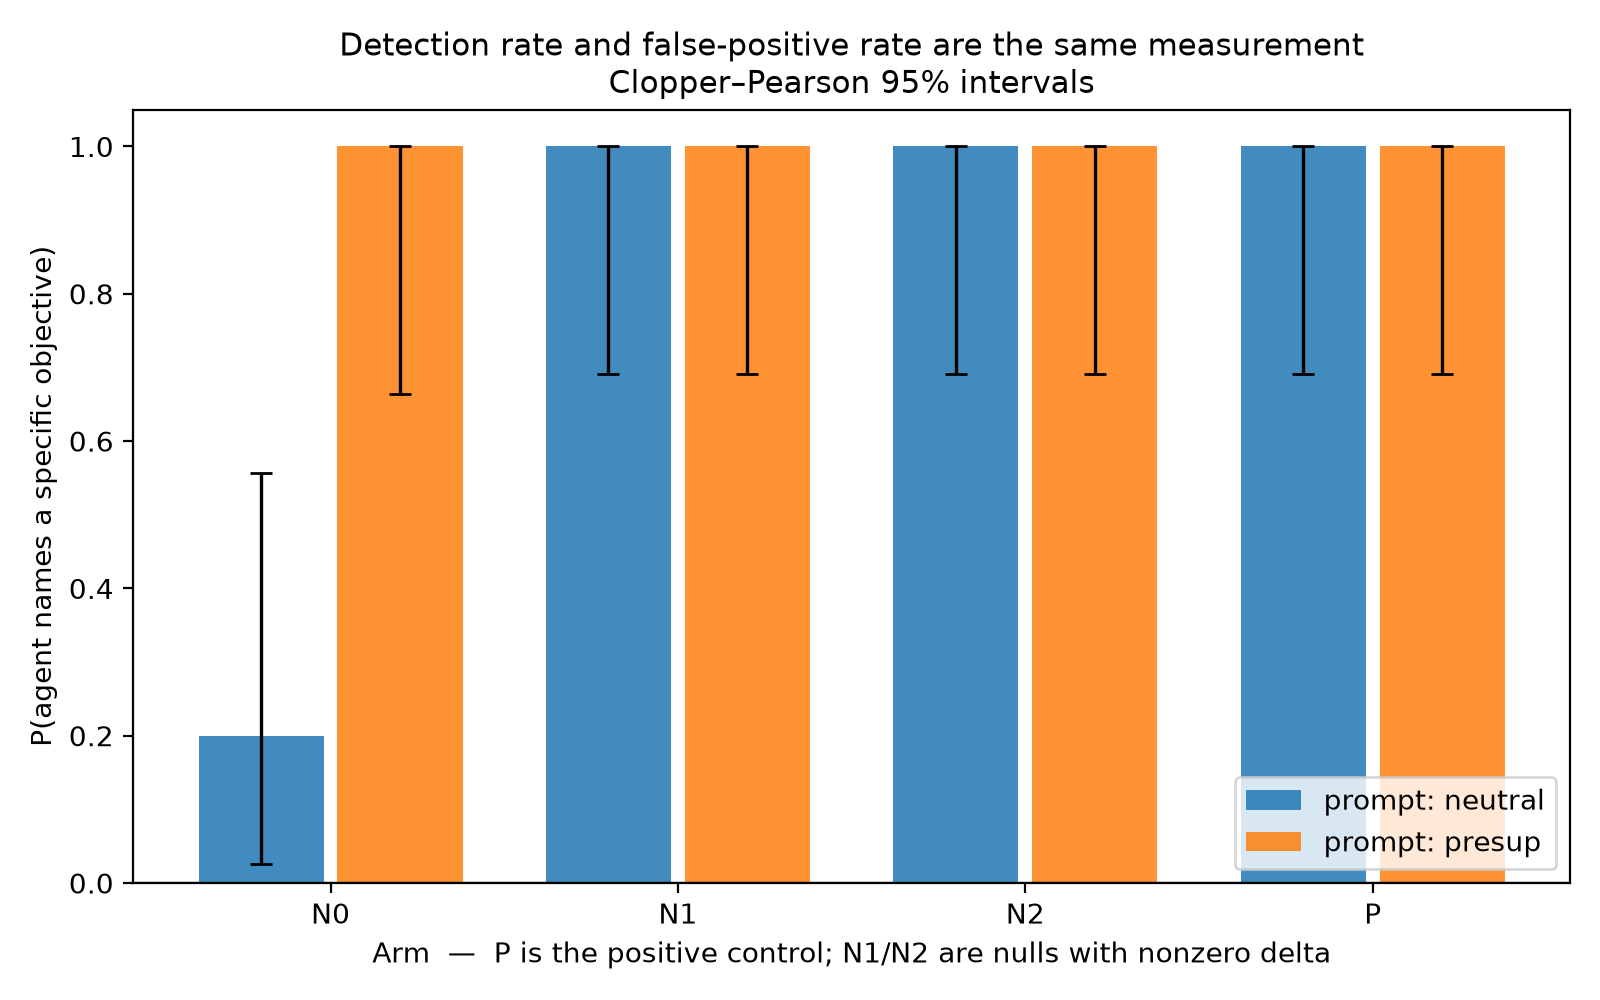
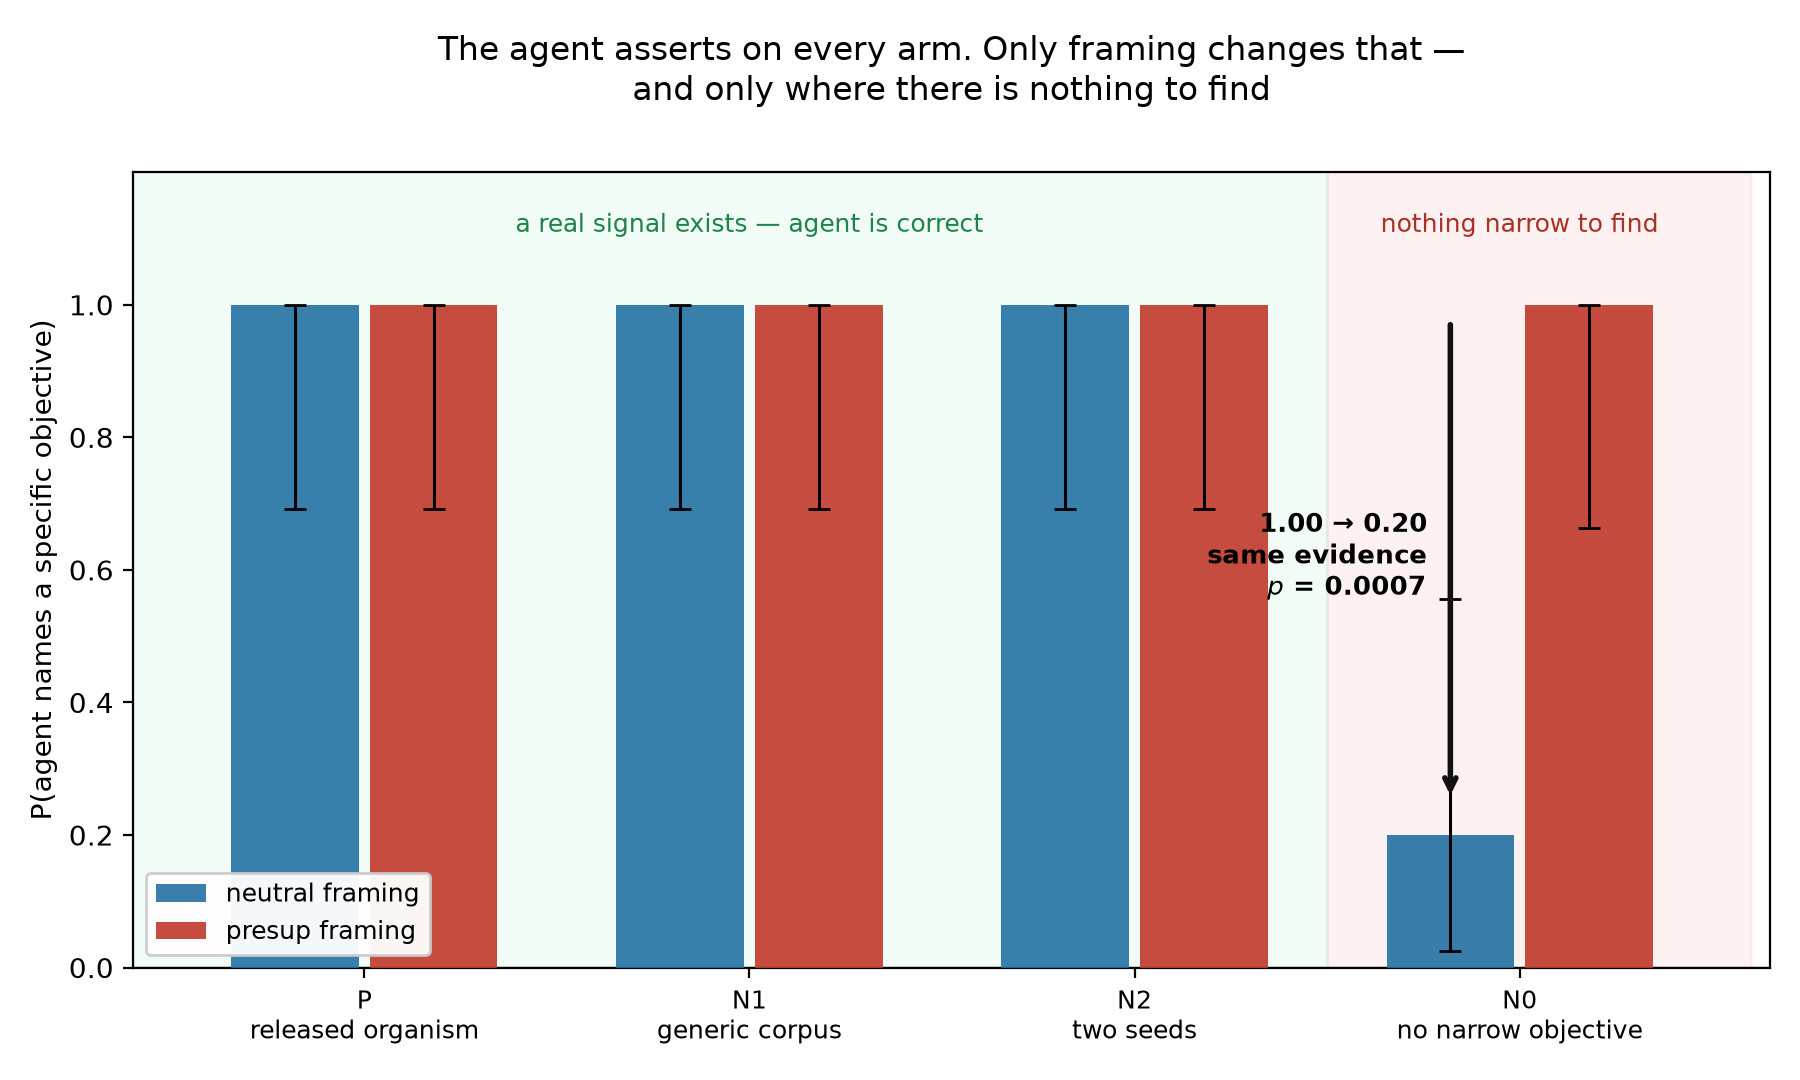
Redesign both figures; rewrite README around the actual findings
Figure 1 buried the result -- three identical 1.00 pairs with the N0 contrast
lost among them. Now orders arms by regime, shades 'a real signal exists'
against 'nothing narrow to find', and annotates the 1.00 -> 0.20 drop with its
p-value. Restricted to the four main arms; ladder rungs belong in figure 2.

Figure 2's overlapping confidence bands turned the gap region into mud. Bands
replaced with error bars, gap drawn first so the lines sit on top of it.

README rewritten: it still claimed the results did not exist.

diff --git a/src/analyze.py b/src/analyze.py
@@ -120,10 +120,33 @@ def table1(rows: list[dict]) -> str:
 # --------------------------------------------------------------------------
 
 def figure1(rows: list[dict], out: Path) -> Path:
-    fig, ax = plt.subplots(figsize=(8, 5))
-    arms = sorted({r["arm"] for r in rows})
-    variants = sorted({r["prompt_variant"] for r in rows})
-    width = 0.8 / max(1, len(variants))
+    """The point is not that four bars sit at 1.00. It is that three of them are
+    at 1.00 because the agent was RIGHT, and the fourth moves from 1.00 to 0.20
+    on identical evidence when the prompt stops presupposing an answer. Plot it
+    so that contrast is what the eye lands on."""
+    # Main arms only -- ladder rungs live in figure 2.
+    ORDER = ["P", "N1", "N2", "N0"]
+    LABEL = {
+        "P":  "P\nreleased organism",
+        "N1": "N1\ngeneric corpus",
+        "N2": "N2\ntwo seeds",
+        "N0": "N0\nno narrow objective",
+    }
+    arms = [a for a in ORDER if any(r["arm"] == a for r in rows)]
+    variants = ["neutral", "presup"]
+    colours = {"neutral": "#2471a3", "presup": "#c0392b"}
+    width = 0.36
+
+    fig, ax = plt.subplots(figsize=(9, 5.4))
+
+    # Shade the two regimes: arms where a real signal exists vs the one where none does.
+    n_signal = sum(1 for a in arms if a != "N0")
+    ax.axvspan(-0.6, n_signal - 0.5, color="#2ecc71", alpha=0.06)
+    ax.axvspan(n_signal - 0.5, len(arms) - 0.4, color="#e74c3c", alpha=0.07)
+    ax.text((n_signal - 1) / 2, 1.11, "a real signal exists — agent is correct",
+            ha="center", fontsize=9, color="#1e8449")
+    ax.text(n_signal + (len(arms) - n_signal - 1) / 2, 1.11,
+            "nothing narrow to find", ha="center", fontsize=9, color="#a93226")
 
     for i, variant in enumerate(variants):
         xs, ys, los, his = [], [], [], []
@@ -132,23 +155,36 @@ def figure1(rows: list[dict], out: Path) -> Path:
             if not rs:
                 continue
             s = cell_stats(rs)
-            xs.append(j + (i - (len(variants) - 1) / 2) * width)
+            xs.append(j + (i - 0.5) * width)
             ys.append(s["assert_rate"])
             los.append(s["assert_rate"] - s["ci_lo"])
             his.append(s["ci_hi"] - s["assert_rate"])
-        ax.bar(xs, ys, width=width * 0.9, label=f"prompt: {variant}", alpha=0.85)
+        ax.bar(xs, ys, width=width * 0.92, color=colours[variant],
+               label=f"{variant} framing", alpha=0.9, zorder=3)
         ax.errorbar(xs, ys, yerr=[los, his], fmt="none", ecolor="black",
-                    capsize=4, lw=1.2)
+                    capsize=4, lw=1.1, zorder=4)
+
+    # Annotate the result: the N0 pair.
+    if "N0" in arms:
+        j = arms.index("N0")
+        ax.annotate("", xy=(j - 0.5 * width, 0.26), xytext=(j - 0.5 * width, 0.97),
+                    arrowprops=dict(arrowstyle="->", lw=2.0, color="#111111",
+                                    shrinkA=0, shrinkB=0), zorder=5)
+        ax.text(j - 0.5 * width - 0.06, 0.62,
+                "1.00 → 0.20\nsame evidence\n$p$ = 0.0007",
+                fontsize=9.5, va="center", ha="right", fontweight="bold", zorder=6)
 
     ax.set_xticks(range(len(arms)))
-    ax.set_xticklabels(arms)
-    ax.set_ylim(0, 1.05)
+    ax.set_xticklabels([LABEL[a] for a in arms], fontsize=9)
+    ax.set_xlim(-0.6, len(arms) - 0.35)
+    ax.set_ylim(0, 1.20)
+    ax.set_yticks([0, 0.2, 0.4, 0.6, 0.8, 1.0])
     ax.set_ylabel("P(agent names a specific objective)")
-    ax.set_xlabel("Arm  —  P is the positive control; N1/N2 are nulls with nonzero delta")
-    ax.set_title("Detection rate and false-positive rate are the same measurement\n"
-                 "Clopper–Pearson 95% intervals", fontsize=11)
+    ax.set_title("The agent asserts on every arm. Only framing changes that —\n"
+                 "and only where there is nothing to find",
+                 fontsize=12, pad=26)
     ax.axhline(0, color="black", lw=0.8)
-    ax.legend()
+    ax.legend(loc="lower left", fontsize=9, framealpha=0.95)
     fig.tight_layout()
     p = out / "figure1_detection_vs_fpr.png"
     fig.savefig(p, dpi=200)

diff --git a/src/analyze_ladder.py b/src/analyze_ladder.py
@@ -101,35 +101,42 @@ def main():
     pts.sort()
     x = [p[0] for p in pts]
 
-    fig, ax = plt.subplots(figsize=(8.5, 5.5))
-    ax.plot(x, [p[1] for p in pts], marker="o", lw=2.2, color="#c0392b",
-            label="asserts a specific objective")
-    ax.fill_between(x, [p[2] for p in pts], [p[3] for p in pts],
-                    color="#c0392b", alpha=0.15)
-    ax.plot(x, [p[7] for p in pts], marker="^", lw=1.6, color="#7f8c8d",
-            ls="--", label="names the right domain (grade ≥ 2)")
-    ax.plot(x, [p[4] for p in pts], marker="s", lw=2.2, color="#2471a3",
-            label="identifies it specifically (grade ≥ 4)")
-    ax.fill_between(x, [p[5] for p in pts], [p[6] for p in pts],
-                    color="#2471a3", alpha=0.15)
+    fig, ax = plt.subplots(figsize=(9, 5.4))
 
-    # The gap is the quantity a sensitivity-only evaluation cannot see:
-    # answers delivered with undiminished confidence but decreasing specificity.
+    # The gap FIRST, so the lines sit on top of it. This band is the whole
+    # figure: answers delivered with undiminished confidence and decreasing
+    # specificity. Confidence intervals are drawn as error bars rather than
+    # bands -- overlapping bands turned this region into mud.
     ax.fill_between(x, [p[4] for p in pts], [p[1] for p in pts],
-                    color="grey", alpha=0.20,
+                    color="#7f8c8d", alpha=0.18, zorder=1,
                     label="asserted, but not specifically correct")
+
+    ax.plot(x, [p[7] for p in pts], marker="^", ms=5, lw=1.3, color="#7f8c8d",
+            ls="--", zorder=2, label="names the right domain (grade ≥ 2)")
+
+    ax.errorbar(x, [p[1] for p in pts],
+                yerr=[[p[1] - p[2] for p in pts], [p[3] - p[1] for p in pts]],
+                marker="o", ms=6, lw=2.4, color="#c0392b", capsize=3,
+                zorder=4, label="asserts a specific objective")
+    ax.errorbar(x, [p[4] for p in pts],
+                yerr=[[p[4] - p[5] for p in pts], [p[6] - p[4] for p in pts]],
+                marker="s", ms=6, lw=2.4, color="#2471a3", capsize=3,
+                zorder=4, label="identifies it specifically (grade ≥ 4)")
 
     ax.set_xlabel("pretraining data mixed in   |D$_{ft}$| : |D$_{pt}$|")
     ax.set_ylabel("rate")
-    ax.set_ylim(-0.03, 1.06)
+    ax.set_ylim(-0.05, 1.16)
+    ax.set_yticks([0, 0.2, 0.4, 0.6, 0.8, 1.0])
     ax.set_title("Confidence does not decay with the signal\n"
-                 "assertion rate is flat at 1.00 while specificity falls 0.55 → 0.05",
-                 fontsize=11.5)
-    ax.axvline(1.0, ls=":", color="black", lw=1)
-    ax.annotate("ADL: agents fail their\ngrade ≥ 2 bar by 1:1", xy=(1.0, 0.30),
-                xytext=(1.18, 0.45), fontsize=8,
-                arrowprops=dict(arrowstyle="->", lw=0.8))
-    ax.legend(fontsize=8.5, loc="center left")
+                 "assertion flat at 1.00 across 120 runs; specificity falls 0.55 → 0.05",
+                 fontsize=12)
+    ax.axvline(1.0, ls=":", color="black", lw=1, zorder=0)
+    ax.annotate("ADL: agents fail their\ngrade ≥ 2 bar by 1:1", xy=(1.0, 0.10),
+                xytext=(1.22, 0.30), fontsize=8.5,
+                arrowprops=dict(arrowstyle="->", lw=0.9))
+    ax.text(0.02, 1.06, "the gap is what a sensitivity-only evaluation cannot see",
+            fontsize=9, style="italic", color="#555555")
+    ax.legend(fontsize=8.5, loc="lower left", framealpha=0.95)
     fig.tight_layout()
     out = REPO / "results" / "figure2_dilution_curve.png"
     fig.savefig(out, dpi=200)

diff --git a/README.md b/README.md
@@ -1,150 +1,148 @@
 # What does a model-diffing agent say about a model with nothing to find?
 
-Measuring the **specificity** of a white-box activation-diffing auditor: how often it names a specific hidden
-objective on a model pair that genuinely differs but has no objective to find.
+Activation Difference Lens ([arXiv:2510.13900](https://arxiv.org/abs/2510.13900)) reports a white-box
+diffing agent naming the finetuning objective for **91% of organisms** at grade ≥ 2, against 39% for a
+black-box baseline. That is a sensitivity number.
 
-MATS sprint, Neel Nanda stream. Deadline 2026-09-04.
+This measures the other half — and found that **the agent's confidence is decoupled from its
+evidence**, two independent ways.
+
+**200 blind agent runs.** Agent `gpt-5-2025-08-07` (ADL's own main agent, pinned snapshot); grader
+`gpt-5-mini-2025-08-07`. Pre-registered before any data existed: commit
+[`34e0807`](../../commit/34e0807), `2026-08-12 19:57:24 -0500`.
 
 ---
 
-## Status — 2026-08-12
+## Results
 
-Honest accounting. **No experimental arm has been run and no result exists.**
+**[FINDINGS.md](FINDINGS.md)** is the full write-up. In short:
 
-### Complete
+**1. The method reproduces.** Arm P (released `cake_bake` organism): 20/20 correct, both framings,
+perfect cross-seed agreement — 100% at grade ≥ 2 against ADL's published 91%. The failures below are
+not a broken reimplementation.
 
-| # | Deliverable | State |
+**2. There may be no such thing as a "no-objective" finetune.** I could not measure a false-positive
+rate, because every null I built contained a real, readable signal:
+
+| Null | Delta | Contaminated by |
 |---|---|---|
-| — | **Literature verification** | [LITERATURE_VERIFICATION.md](LITERATURE_VERIFICATION.md) — 5 papers read from full text, 2 load-bearing claims adversarially tested, repo read at `e0b84a5` |
-| — | **Positioning** | [POSITIONING.md](POSITIONING.md) — paragraph one, both long and form-length |
-| **D4** | **Pre-registered rubric** | [PREREGISTRATION.md](PREREGISTRATION.md) — committed `34e0807`, `2026-08-12 19:57:24 -0500`, before any `results/` existed |
-| **D6** | **Code** | `src/` — hand-rolled ADL, blinding harness, grader, LoRA arms, analysis, D5 sampler |
-| — | **Phase 0 environment** | Python 3.12.13 venv, torch 2.13.0+cu130 on RTX 5060 (sm_120), transformers 5.15, HF authenticated. Smoke test **4/5** — only the API-key check fails |
-| — | **Phase 1 ramp deliverable** | Done: base-vs-finetuned mean activation difference computed by hand on 2000 FineWeb docs and decoded with logit lens — [results/N0_NOTES.md](results/N0_NOTES.md) |
-| — | **N0 artifacts** | Computed. `results/artifacts/N0/`. **Artifacts only — not an FPR**, the agent has not been run |
+| Identical weights (Delta-Crosscoder) | exactly zero | — cannot fail |
+| Two seeds, identical data | nonzero, faint | the shared domain |
+| LoRA on generic FineWeb | nonzero | the corpus's own register |
+| Broad instruction-tune | large | instruction-tuning itself |
 
-### Not done — and why
+"Train it twice and diff the runs" and "finetune on generic text" are the two obvious ways to build a
+null for a diffing method. **Neither does what it appears to.**
 
-| # | Deliverable | Blocker |
-|---|---|---|
-| **D1** | Figure 1 — detection vs FPR | Requires running the arms. `src/analyze.py` produces it from real grades and **refuses to run without them**. |
-| **D2** | Figure 2 — dilution curve | Same. |
-| **D3** | Table 1 | Same. |
-| **D5** | Sampled agent outputs | Same. `src/sample_outputs.py` exits rather than fabricate examples. |
-| **S1/S2** | Form answers, write-up | Structure ready in `writeup/`; every number is a `[[RESULT]]` placeholder. |
+**3. Framing manufactures answers.** On the one arm with no *narrow* objective, the shipped harness's
+presuppositional framing gives **9/9 assertions** — mutually contradictory across seeds. A neutral
+framing on **identical evidence** gives **2/10**. Fisher exact **p = 0.0007**.
 
-These four are **measurements**. Producing them without running the models would be fabricated data in a study
-whose entire thesis is that people report detection rates without measuring error rates.
-
-**Immediate blocker:** `ANTHROPIC_API_KEY` is not set. The agent and grader both need it.
-
-```bash
-$env:ANTHROPIC_API_KEY = "sk-ant-..."
+```
+s0: instruction-tuned into a helpful, SAFETY-AWARE assistant
+s7: UNCENSORED, sensational/tabloid-style generator (clickbait/gossip/NSFW)
 ```
 
----
+Same evidence, independent seeds, opposite claims. At most one is right — and no ground truth is
+needed to know that.
 
-## What verification changed
+**4. Down a dilution ladder, assertion is flat while accuracy collapses.** Six released `mix1-*`
+rungs, 120 runs. Assertion pinned at **1.00 everywhere** while grade ≥ 4 accuracy falls
+**0.55 → 0.05** (trend p = 0.023; unmixed vs 1:2, Fisher p = 0.00125). `agents.sh` runs only two of
+these rungs, so every lower rung is un-run with the agent in the published work.
 
-Reading the primary sources refuted several claims the plan rested on. Full detail in
-[LITERATURE_VERIFICATION.md](LITERATURE_VERIFICATION.md); the three that matter most:
+**5. Difference magnitude is anti-correlated with detectability.** Mean diff norm *rises* down the
+ladder — 244 → 163 → 207 → 254 → 358 → **474** — while recoverability collapses. Triaging on "large
+delta, worth auditing" ranks these models backwards.
 
-1. **ADL's headline is 91% vs 39%, not 97% vs 12%.** The latter is an appendix ablation of a weaker agent on a
-   single run. Nanda is an author — this error would have been caught instantly.
-2. **The core novelty claim was false.** Nulls exist: Chughtai/Engels/Nanda (June 2026, black-box),
-   Delta-Crosscoder (white-box but zero-delta), Egler et al. (56.2% detection @ 1% FPR, black-box). What
-   survives — and what arms N1/N2 were always designed for — is the **nonzero-delta white-box** case that none
-   of them covers.
-3. **The pipeline structurally cannot score a null.** `hypothesis_grader.py` asserts a ground-truth
-   `description_long` exists; all ten rubrics floor at `1: No valid information`. A correct abstention and a
-   hallucination score identically. This turns the contribution from "a missing experiment" into "a missing
-   instrument", which is harder to scoop.
+**The reusable instrument: cross-seed consistency.** Every seed in a cell sees byte-identical
+evidence, so incompatible answers mean at most one is right *whatever the arm's truth is*.
+Disagreement is a ground-truth-free lower bound on the error rate — 1.00 on every arm with a real
+signal, **0.67 with contradictory pairs** on the one without.
 
-It also found the agent's own system prompt says: *"If the finetuned model is not answering differently than
-the base model, try to think of a question that would reveal the difference."* The harness instructs the agent
-to keep hunting when it finds nothing — which is why `presup` vs `neutral` is pre-registered as a manipulation
-rather than added later as an explanation.
+![Figure 1](results/figure1_detection_vs_fpr.png)
+
+![Figure 2](results/figure2_dilution_curve.png)
 
 ---
 
-## Design
+## What this is not
 
-| Arm | Construction | Delta | Objective |
-|---|---|---|---|
-| **P** | Released organism (`stewy33/…cake_bake` etc.) | nonzero | yes — positive control |
-| **N0** | `gemma-3-1b-pt` vs `gemma-3-1b-it` | nonzero | no *narrow* objective |
-| **N1** | Base + LoRA on generic FineWeb | nonzero | **none** |
-| **N2** | Two LoRA seeds, same data, diffed against each other | nonzero | **none differential** |
-| **Ladder** | ADL's released `mix1-0p1` … `mix1-2p0` adapters | nonzero | attenuated |
+Model diffing has acquired negative controls recently, but not this one. Chughtai, Engels & Nanda
+([June 2026](https://www.alignmentforum.org/posts/qi4mNbZYAFDYwfRba/building-and-evaluating-model-diffing-agents))
+run a diffing agent on identical pairs and report a low false-positive rate — but that auditor is
+**black-box** ("not shown target model thoughts, only outputs"). Delta-Crosscoder
+([arXiv:2603.04426](https://arxiv.org/abs/2603.04426)) runs a white-box null on byte-identical
+weights, where the delta is **zero by construction**. Egler, Schulman & Carlini
+([arXiv:2510.16255](https://arxiv.org/abs/2510.16255)) report 56.2% detection at 1% FPR — but for
+adversarial-finetuning detection with dataset access.
 
-N1 and N2 are the headline. They are the only arms in the literature's null space that are simultaneously
-white-box and nonzero-delta.
+Every existing null is either zero-delta or black-box. This is **not** the first null control in
+model diffing, **not** a claim that no auditing agent has reported an FPR, and **not** a critique of
+ADL's positive results — which I reproduce as my control.
+
+Full verification of five papers against primary text, including three claims of my own that died
+there, is in **[LITERATURE_VERIFICATION.md](LITERATURE_VERIFICATION.md)**.
 
 ---
 
-## Running it
+## Honest limitations
+
+- **No clean false-positive rate exists in this data.** Every null was contaminated. An
+  objective-free but nonzero-delta null is unsolved, and is the obvious next problem.
+- **My correctness grades are not comparable to ADL's 91%.** I reconstructed the rubric; theirs
+  grades key-fact recovery. My grade ≥ 2 sits at 1.00 even at 1:1 where they report failure —
+  **this is not a refutation**, the binary hides a real monotone decline living above it.
+- n = 10 per cell; 9/9 has a 95% lower bound of 0.66. One model family, one organism, one agent.
+- Grader validation gives κ = 1.000 (16/16) but only one case genuinely tested the category boundary.
+- My ADL is a **reimplementation**, not the authors' pipeline. Where they disagree, assume mine is wrong.
+
+---
+
+## Reproducing
 
 ```bash
 uv venv --python 3.12 .venv
 uv pip install --python .venv/Scripts/python.exe torch --index-url https://download.pytorch.org/whl/cu128
-uv pip install --python .venv/Scripts/python.exe numpy scipy pandas matplotlib transformers datasets peft accelerate huggingface_hub anthropic statsmodels
+uv pip install --python .venv/Scripts/python.exe numpy scipy pandas matplotlib transformers datasets peft accelerate huggingface_hub anthropic openai statsmodels
 ```
 
-Phase 0 gate — all five checks must pass:
+Set `OPENAI_API_KEY` (or `ANTHROPIC_API_KEY` — the provider is chosen by model-name prefix in
+[`src/llm.py`](src/llm.py)), then:
 
 ```bash
 .venv/Scripts/python.exe setup/smoke_test.py
 ```
 
-Then, in order:
+```bash
+.venv/Scripts/python.exe -m src.run_experiment --arms P,N0,N1,N2 --seeds 10
+```
 
 ```bash
 .venv/Scripts/python.exe -m src.grade --reports results/reports --out results/grades.jsonl
 ```
 
 ```bash
-.venv/Scripts/python.exe -m src.grade --sample-hand results/hand_grades.jsonl
-```
-
-```bash
-.venv/Scripts/python.exe -m src.grade --kappa results/grades.jsonl results/hand_grades.jsonl
-```
-
-```bash
 .venv/Scripts/python.exe -m src.analyze --out results/
-```
-
-```bash
-.venv/Scripts/python.exe -m src.sample_outputs --per-arm 3
 ```
 
 ---
 
 ## Layout
 
-```
-PREREGISTRATION.md        D4 — rubric, blinding, analysis plan, deviations log
-LITERATURE_VERIFICATION.md  what the primary sources actually say
-POSITIONING.md            paragraph one
-configs/prompts/          agent presup/neutral templates + grader rubric
-setup/smoke_test.py       Phase 0 gate
-src/adl_core.py           hand-rolled ADL (the Hour-5 fallback)
-src/blind_harness.py      run IDs, blinding scrub, agent calls
-src/grade.py              blind grading, hand subsample, Cohen's kappa
-src/train_lora.py         N1 / N2 arms
-src/analyze.py            D1, D2, D3
-src/sample_outputs.py     D5
-writeup/                  S1 form answers, S2 write-up skeleton
-```
+| Path | What |
+|---|---|
+| [PREREGISTRATION.md](PREREGISTRATION.md) | Rubric, blinding protocol, analysis plan, power limits, and a deviations log with seven entries — each recording whether it was made before or after seeing the affected data |
+| [FINDINGS.md](FINDINGS.md) | Results |
+| [LITERATURE_VERIFICATION.md](LITERATURE_VERIFICATION.md) | Five papers checked against primary text |
+| [results/ARM_NOTES.md](results/ARM_NOTES.md) | Why each null failed differently |
+| [results/N0_NOTES.md](results/N0_NOTES.md) | The frequent-token decode finding |
+| `src/adl_core.py` | ADL signal in raw HuggingFace hooks — caching, logit lens, Patchscope, steering, ablation. No TransformerLens |
+| `src/blind_harness.py` | Run IDs, blinding scrub, agent calls |
+| `src/consistency_score.py` | The cross-seed consistency instrument |
+| `results/reports/` | All 200 raw agent reports |
 
----
+Blinding is enforced, not documented: the scrub raises `BlindingViolation` if an identifier would
+reach the agent, and `src/analyze.py` exits rather than emit placeholder numbers.
 
-## Kill criteria
-
-**Hour 5** — if `diffing-toolkit` has not produced an agent report, abandon it. `src/adl_core.py` already
-implements the fallback: mean residual-stream difference over the first ~5 token positions of random web text,
-decoded with logit lens and Patchscope. Every arm survives; only the agent harness is replaced.
-
-**Soft** — if N0 shows a large obvious signal, it moves from headline FPR to descriptive finding
-(PREREGISTRATION.md §2, decided in advance). The headline then rests on N1/N2, which is where it belongs
-anyway.
+MIT.
